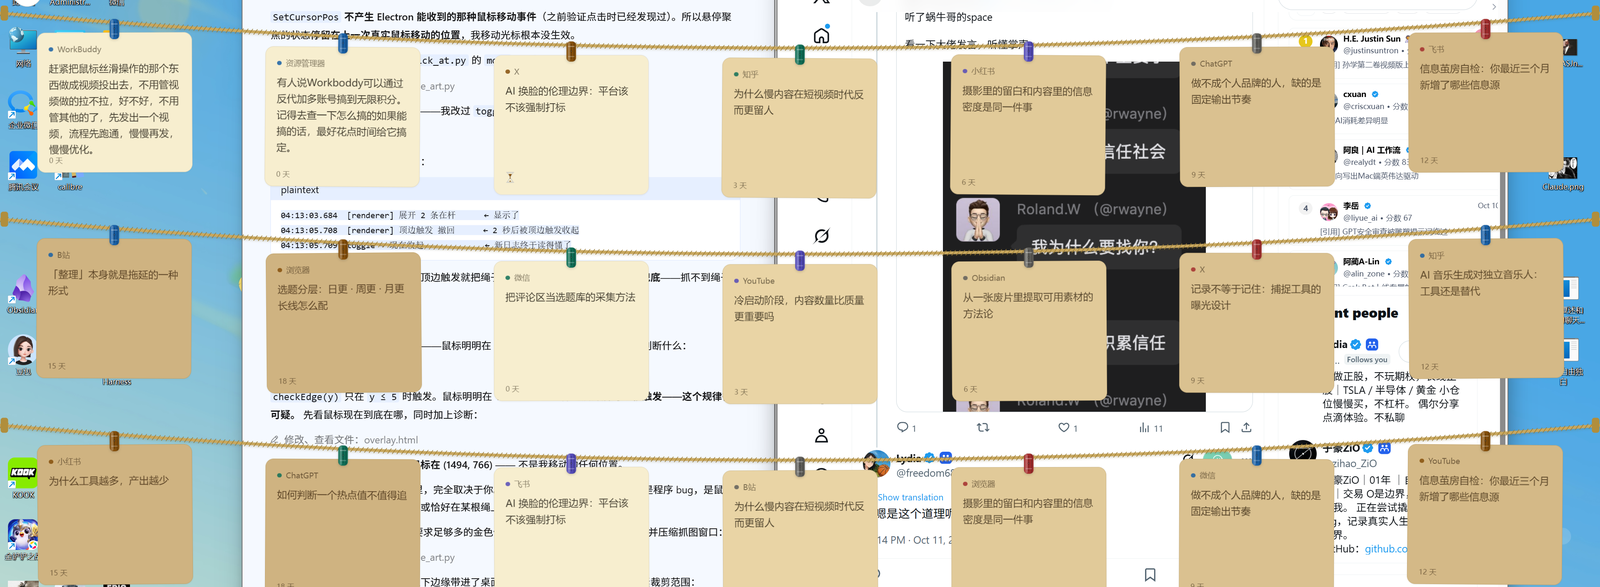
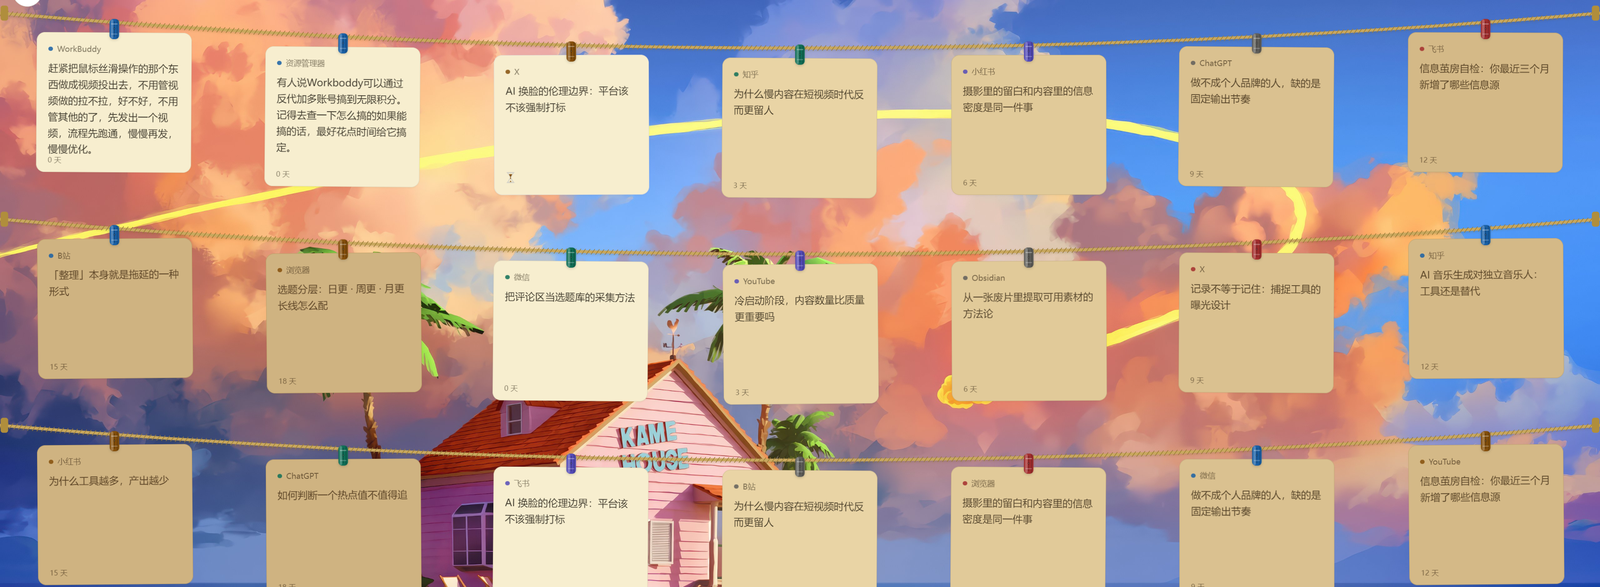
定名与对外形象 - 改名：晾衣杆 → 灵光一挂 · FadeLine   中文名谐音「灵光一现」，「挂」正好是产品的核心动作。英文名取 FadeLine   （Fade 褪色 + Line 线），**不用「21」**：实测 1366x768 是 5 格、   1920x1080 是 10 格、2560x1440 才是 21 格 —— 把 21 写进名字，对大多数   用户是错的 - README 头图换成干净桌面版：只有壁纸 + 三根绳，没有桌面图标和窗口 - 打包产物改用纯英文文件名 —— GitHub 会把 Release 附件名里的中文直接剥掉，   「灵光一挂-0.1.0.zip」会变

diff --git a/overlay/dev/test_source.js b/overlay/dev/test_source.js
@@ -3,7 +3,7 @@ const cp = require('child_process');
 
 const DIR = __dirname + '/..';
 const cfg = JSON.parse(fs.readFileSync(DIR + '/config.json', 'utf8'));
-const SELF = ['electron', 'railbox', 'railbox-overlay', 'node', 'python', 'pythonw'];
+const SELF = ['electron', 'fadeline', 'fadeline-overlay', 'node', 'python', 'pythonw'];
 const BROWSER_SUFFIX = /\s*[-–—|·]\s*(Google Chrome|Microsoft\s*Edge|Mozilla Firefox|Brave|Opera|Vivaldi|Chromium)\s*$/i;
 
 function friendlySource(fg) {
@@ -75,10 +75,10 @@ const cases = [
   ['chrome', 'How to cook - Stack Overflow'],
   ['WeChat', '微信'],
   ['msedge', '某篇文章 - Microsoft Edge'],
-  ['Code', 'overlay.html - RailBox - Visual Studio Code'],
+  ['Code', 'overlay.html - FadeLine - Visual Studio Code'],
   ['Obsidian', '选题灵感箱 - Obsidian'],
   ['feishu', '飞书'],
-  ['electron', '晾衣杆'],
+  ['electron', '灵光一挂'],
   ['unknownapp', '某某']
 ];
 cases.forEach(function (c) {

diff --git a/overlay/dev/check_koffi_api.js b/overlay/dev/check_koffi_api.js
@@ -1,5 +1,5 @@
 /* 摸清 koffi 的传参方式，为 win32.js 定型。跑法：node check_koffi_api.js */
-const koffi = require('D:/RailBox/overlay/node_modules/koffi');
+const koffi = require('D:/FadeLine/overlay/node_modules/koffi');
 
 const user32 = koffi.load('user32.dll');
 const kernel32 = koffi.load('kernel32.dll');
@@ -69,4 +69,4 @@ try {
   }
 } catch (e) { say('进程路径查询失败: ' + e.message); }
 
-require('fs').writeFileSync('D:/RailBox/overlay/dev/_koffi_api_out.txt', out.join('\n'), 'utf8');
+require('fs').writeFileSync('D:/FadeLine/overlay/dev/_koffi_api_out.txt', out.join('\n'), 'utf8');

diff --git a/overlay/store.js b/overlay/store.js
@@ -1,5 +1,5 @@
 /**
- * 晾衣杆 · 数据层
+ * 灵光一挂 · 数据层
  *
  * Markdown 文件夹就是数据库。这个模块是唯一的读写入口，不依赖任何界面代码。
  * 逻辑与 Python 版 store.py 一致，但结算规则按「C 模型」重写：

diff --git a/overlay/layout.js b/overlay/layout.js
@@ -1,5 +1,5 @@
 /**
- * 晾衣杆 · 布局与渲染纯函数
+ * 灵光一挂 · 布局与渲染纯函数
  *
  * 不依赖 DOM，两端通用：
  *   浏览器：<script src="layout.js"></script> 后用全局 Layout

diff --git a/overlay/overlay.html b/overlay/overlay.html
@@ -2,7 +2,7 @@
 <html lang="zh-CN">
 <head>
 <meta charset="UTF-8">
-<title>晾衣杆</title>
+<title>灵光一挂</title>
 <style>
   html,body{
     margin:0;height:100%;overflow:hidden;background:transparent;

diff --git a/overlay/dev/make_readme_art.py b/overlay/dev/make_readme_art.py
@@ -1,8 +1,13 @@
 # -*- coding: utf-8 -*-
 """生成 README 用的头图：截屏 → 裁到绳子区域 → 缩小。
 
-用法：先开启 config.json 的 demoMode 并重启程序让绳子挂满，然后
-      python dev/make_readme_art.py
+用法：
+  1. 开启 config.json 的 demoMode（挂满 21 张假卡片），重启程序
+  2. 把桌面弄干净 —— 越干净越好：
+     · 用 HideDesktopApps 之类的工具收掉桌面图标（或右键桌面 → 查看 → 取消勾选「显示桌面图标」）
+     · 按 Win+D 最小化所有窗口
+  3. python dev/make_readme_art.py
+  4. 记得把 demoMode 改回 false 并重启
 
 这个脚本要处理两件容易被忽略的事，否则截出来的永远是桌面：
 

diff --git a/README.md b/README.md
@@ -1,6 +1,6 @@
-# 晾衣杆
+# 灵光一挂 · FadeLine
 
-> **把灵感挂到一根只有 21 个挂位的绳子上——它会随时间褪色、被新想法挤走。别的工具帮你记住，它帮你忘记。**
+> **把灵感挂到一根只能挂十几个想法的绳子上——它会随时间褪色、被新想法挤走。别的工具帮你记住，它帮你忘记。**
 
 <p align="center">
   <img src="docs/hero.png" alt="三根绳子上挂着褪色程度不同的灵感卡片">
@@ -12,7 +12,7 @@
 
 真正的问题不是「记不住」，是**「记了一堆却从来不做」**。
 
-|  | 收藏夹 / 笔记软件 | 待办清单 | **晾衣杆** |
+|  | 收藏夹 / 笔记软件 | 待办清单 | **灵光一挂** |
 | --- | --- | --- | --- |
 | 接住想法 | ✅ | ✅ | ✅ |
 | 帮你做取舍 | ❌ 只堆积 | ⚠ 靠自律 | **✅ 容量有限，满了就得决定** |
@@ -20,13 +20,13 @@
 
 你看收藏夹里那些「稍后再读」——它们的问题从来不是没被记下来，而是**没有任何机制逼你面对它们**。
 
-晾衣杆的做法很土：**只给 21 个挂位**。挂满了，新的进来，最旧的就得走。你必须在有限的空间里做取舍，而取舍本身就是在想清楚自己到底要做什么。
+灵光一挂的做法很土：**只给十几个挂位**（具体几个由你的屏幕决定）。挂满了，新的进来，最旧的就得走。你必须在有限的空间里做取舍，而取舍本身就是在想清楚自己到底要做什么。
 
 ---
 
 ## 下载即用
 
-到 [Releases](../../releases/latest) 下载 **`晾衣杆-x.y.z.zip`**，**解压后双击里面的 `晾衣杆.exe`**。
+到 [Releases](../../releases/latest) 下载 **`FadeLine-x.y.z-portable.zip`**，**解压后双击里面的 `灵光一挂.exe`**。
 
 **不需要提前装任何东西** —— 不用 Node、不用 Python。
 
@@ -45,7 +45,7 @@
 2. 双击根目录的 **`启动.bat`**（首次运行会自动装依赖，约 100 MB，之后不再需要）
 3. 鼠标推到**屏幕最顶端**停一下 —— 绳子就下来了
 
-数据默认放在 `你的文档\晾衣杆\`，**不需要任何配置**。想换地方改 `config.json` 里的 `vault`（位置见文末「配置文件在哪」）。
+数据默认放在 `你的文档\灵光一挂\`，**不需要任何配置**。想换地方改 `config.json` 里的 `vault`（位置见文末「配置文件在哪」）。
 
 ---
 
@@ -69,7 +69,7 @@
 数据就是一堆 Markdown 文件，**没有数据库、没有私有格式**。每个条目都能单独打开、单独发送、单独备份。
 
 ```
-你的文档\晾衣杆\
+你的文档\灵光一挂\
 ├── 01-在杆\      当前挂在绳子上的
 ├── 02-采用\      你认可、要拿去用的
 ├── 03-搁置\      被挤出去 / 超时 / 挂太久的（系统替你决定）
@@ -81,7 +81,8 @@
 
 ### 淘汰规则
 
-容量 = 每行张数 × 绳数（常见屏幕是 7 × 3 = 21）。
+容量 = 每行张数 × 绳数，两个数都由屏幕尺寸决定：
+2560×1440 上是 7 × 3 = 21 格，最常见的 1920×1080 上是 5 × 2 = 10 格，笔记本上可能只有 5 格。
 
 1. **挂满了** → 最旧的被挤出去，进 `03-搁置`
 2. **满的时候** → 最旧那张被标上「待淘汰」，卡片上出现沙漏
@@ -103,7 +104,7 @@
 
 | 你怎么用的 | 路径 |
 | --- | --- |
-| 下载的 exe | `%APPDATA%\晾衣杆\config.json` |
+| 下载的 exe | `%APPDATA%\灵光一挂\config.json` |
 | 从源码运行 | `overlay\config.json` |
 
 （从源码跑时也可以用 `overlay/config.example.json` 作格式参考。）
@@ -146,7 +147,9 @@
 3. 到 GitHub 仓库的 **Releases** 页 → **Draft a new release**
    - Tag 填 `v0.1.1`（**要和上面的 version 一致**）
    - 标题写这次改了什么
-   - 把 `dist\晾衣杆-0.1.1.zip` 拖到附件区
+   - 把 `dist\FadeLine-0.1.1-portable.zip` 拖到附件区
+     （**文件名必须是纯英文** —— GitHub 会把附件名里的中文直接剥掉，
+       `灵光一挂-0.1.1.zip` 会变成 `-0.1.1.zip`）
    - Publish
 
 **为什么 exe 不上传到 git 仓库里？** exe 有几十 MB，而 git 会保存每一次历史 ——
